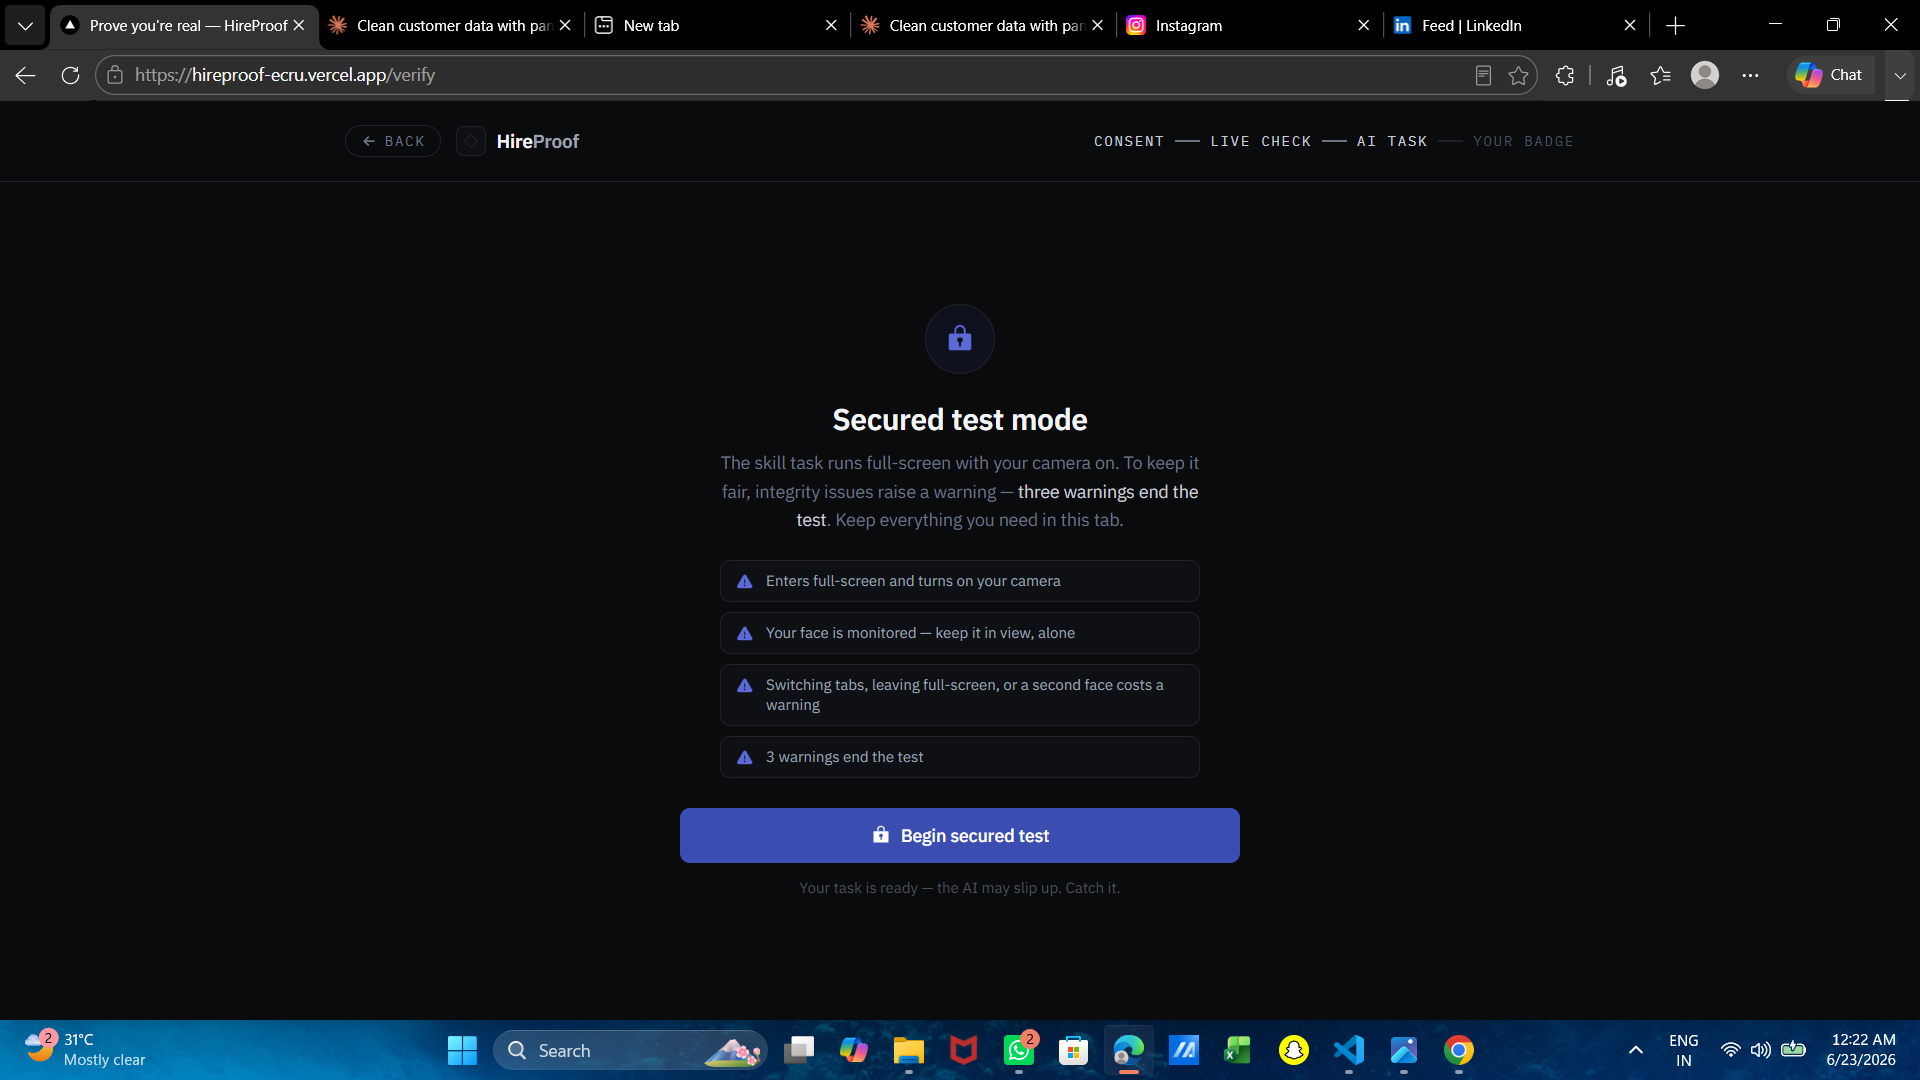
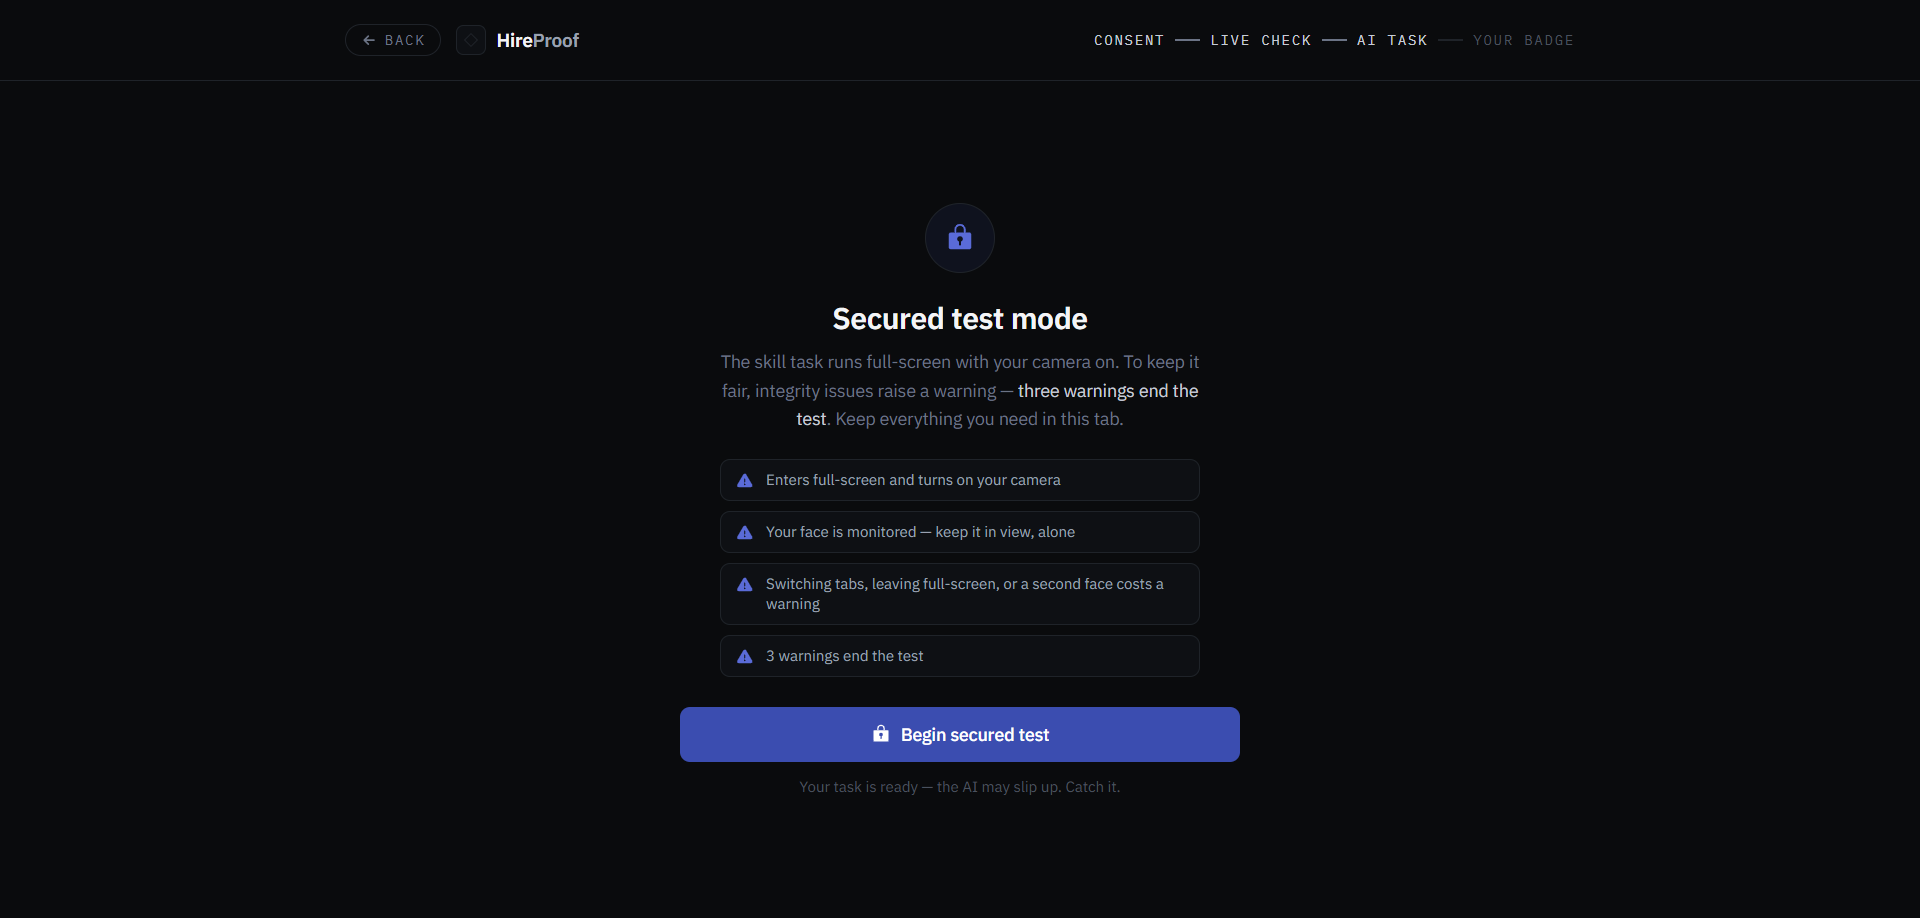
docs(submission): crop browser chrome + taskbar off the windowed screenshots
Figures 2, 3 and 6 were full-screen Edge captures that showed the browser tab
strip + address bar on top and the Windows taskbar at the bottom. Crop each to
just the app area (rows 101..1018 of the 1920x1080 frame) so only the project UI
shows. Regenerate the submission PDF from the cleaned screenshots; add crop.py
documenting the exact crop boxes. Originals remain in git history.

diff --git a/docs/submission/crop.py b/docs/submission/crop.py
@@ -1,0 +1,35 @@
+"""Crop the Edge browser chrome (top) + Windows taskbar (bottom) off the three
+full-screen *windowed* captures. The other figures are already either full-screen
+app captures (04, 05) or tight crops (01, 07-11), so they are left untouched.
+
+All three windowed shots share the same geometry at 1920x1080 (dark-mode Edge):
+top chrome (tab strip + address bar) ends at y=101; the Windows taskbar is the
+bottom 48px. Crop box keeps rows 101..1031 — the full app, no chrome, no taskbar.
+
+  python crop.py            # back up originals -> _orig/, crop in place
+"""
+import os
+from PIL import Image
+
+CROP = {
+    "02-task-gen.png":    (0, 101, 1920, 1019),
+    "03-secured-gate.png": (0, 101, 1920, 1019),
+    "06-ledger.png":      (0, 101, 1920, 1019),
+}
+
+here = os.path.dirname(os.path.abspath(__file__))
+shots = os.path.join(here, "screenshots")
+orig = os.path.join(shots, "_orig")
+os.makedirs(orig, exist_ok=True)
+
+for name, box in CROP.items():
+    p = os.path.join(shots, name)
+    im = Image.open(p)
+    backup = os.path.join(orig, name)
+    if not os.path.exists(backup):
+        im.save(backup)               # keep the untouched original
+    src = Image.open(backup)          # always crop from the pristine original
+    out = src.crop(box)
+    out.save(p)
+    print(f"{name:22s} {src.size[0]}x{src.size[1]} -> {out.size[0]}x{out.size[1]}")
+print("done")